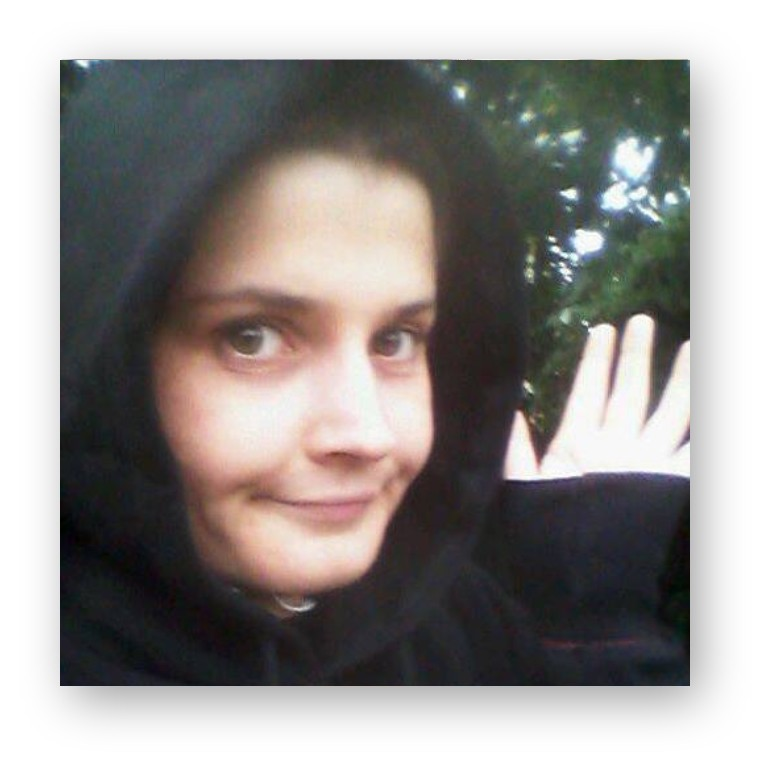
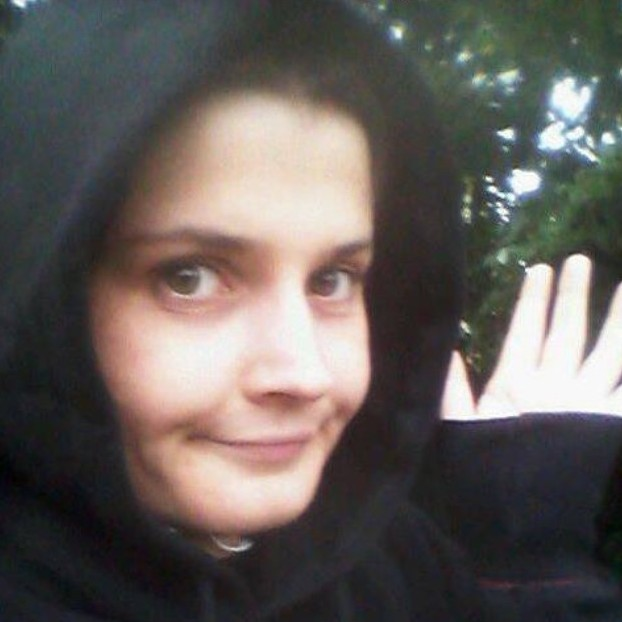
intro styled

diff --git a/css/style.css b/css/style.css
@@ -1,0 +1,137 @@
+*,
+*::before,
+*::after{
+    box-sizing: border-box;
+}
+
+
+/* props */
+
+:root {
+    --ff-primary: 'Source Sans Pro', sans-serif;
+    --ff-secondary: 'Source Code Pro', monospace;
+
+    --fw-reg:300;
+    --fw-bold:900;
+
+    --clr-light:#D4D4D4;
+    --clr-dark:#181717;
+    --clr-accent:#FF2626;
+
+    --fs-h1: 2.5rem;
+    --fs-h2: 2.25rem;
+    --fs-h3: 1.25rem;
+    --fs-body: 1rem;
+
+    --bs: 0.25em 0.25em 0.75em rgba(0,0,0,.25);
+
+}
+
+@media(min-width: 800px){
+    :root{
+        --fs-h1: 4.5rem;
+        --fs-h2: 3.75rem;
+        --fs-h3: 1.5rem;
+        --fs-body: 1.125rem; 
+    }
+}
+
+/* General Styles */
+body{
+    background-color: var(--clr-light);
+    color:var(--clr-dark);
+    margin:0;
+    font-family:var(--ff-primary);
+    font-size:var(--fs-body);
+}
+
+section {
+    padding: 5em 2em;
+}
+
+img{
+    display:block;
+    max-width: 100%;
+}
+
+strong { font-weight: var(--fw-bold) }
+
+/* Typography */
+
+h1,
+h2,
+h3{
+    line-height: 1.1;
+}
+
+h1 { font-size: var(--fs-h1) }
+h2 { font-size: var(--fs-h2) }
+h3 { font-size: var(--fs-h3) }
+
+.section__title{
+    margin-bottom: .25em;
+}
+
+.section__title--intro {
+    font-weight:var(--fw-reg);
+}
+
+.section__title--intro strong {
+    display: block;
+}
+
+.section__subtitle{
+    margin:0;
+    font-size:var(--fs-h3);
+}
+
+.section__subtitle--intro,
+.section__subtitle--about{
+    background: var(--clr-accent);
+    padding: .25em 1em;
+    font-family: var(--ff-secondary);
+    margin-bottom:1em;
+}
+
+/* header */
+
+nav { display: none; }
+
+/*  Intro section  */
+
+.intro {
+    position: relative;
+}
+
+.intro__img {
+    box-shadow: var(--bs);
+}
+
+@media (min-width:600px){
+    .intro{
+        margin: 0 auto;
+        display:grid;
+        grid-column-gap:1em;
+        width:min-content;
+        grid-template-areas:
+        "img title"
+        "img subtitle";
+        grid-template-columns: min-content max-content;
+    }
+
+    .intro__img{
+        grid-area: img;
+        min-width: 250px;
+        position:relative;
+    }
+
+    .section__subtitle--intro{
+        align-self: start;
+        grid-column: -1/1;
+        grid-row:2;
+        text-align: right;
+        position: relative;
+        left:-1.5em;
+        width:calc(100%+1.5em)
+    }
+}

diff --git a/index.html b/index.html
@@ -5,6 +5,12 @@
     <meta name="viewport" content="width=device-width, initial-scale=1.0">
     <title>Agnieszka Koń-Kogut</title>
     <link rel="stylesheet" href="https://cdnjs.cloudflare.com/ajax/libs/normalize/7.0.0/normalize.min.css"/>
+    
+    <!-- Google Font -->
+    <link href="https://fonts.googleapis.com/css?family=Source+Code+Pro:400,900|Source+Sans+Pro:300,900&display=swap" rel="stylesheet">
+
+    <link rel="stylesheet" href="css/style.css">
+        
 </head>
 <body>
 <!-- Header -->
@@ -29,9 +35,9 @@
     <section class="intro" id="home">
         <h1 class="section__title section__title--intro">
             Cześć, jestem <strong>Agnieszka Koń-Kogut</strong>
-            <p>front-end developer</p>
-            <img src="img/kon-kogut-01.jpg" alt="">
         </h1>
+        <p class="section__subtitle section__subtitle--intro">jestem front-end developerką</p>
+        <img src="img/kon-kogut-01.jpg" alt="" class="intro__img">
     </section>
 
 <!-- Technologies -->
@@ -56,7 +62,7 @@
 
 <!-- About -->
     <section class="about-me" id=about>
-        <h2 class="section__title section__title--technologies--about">Kim jestem?</h2>
+        <h2 class="section__title section__title--about">Kim jestem?</h2>
         <p class="section__subtitle section__subtitle--about"></p>
 
         <div class="about-me__body">
